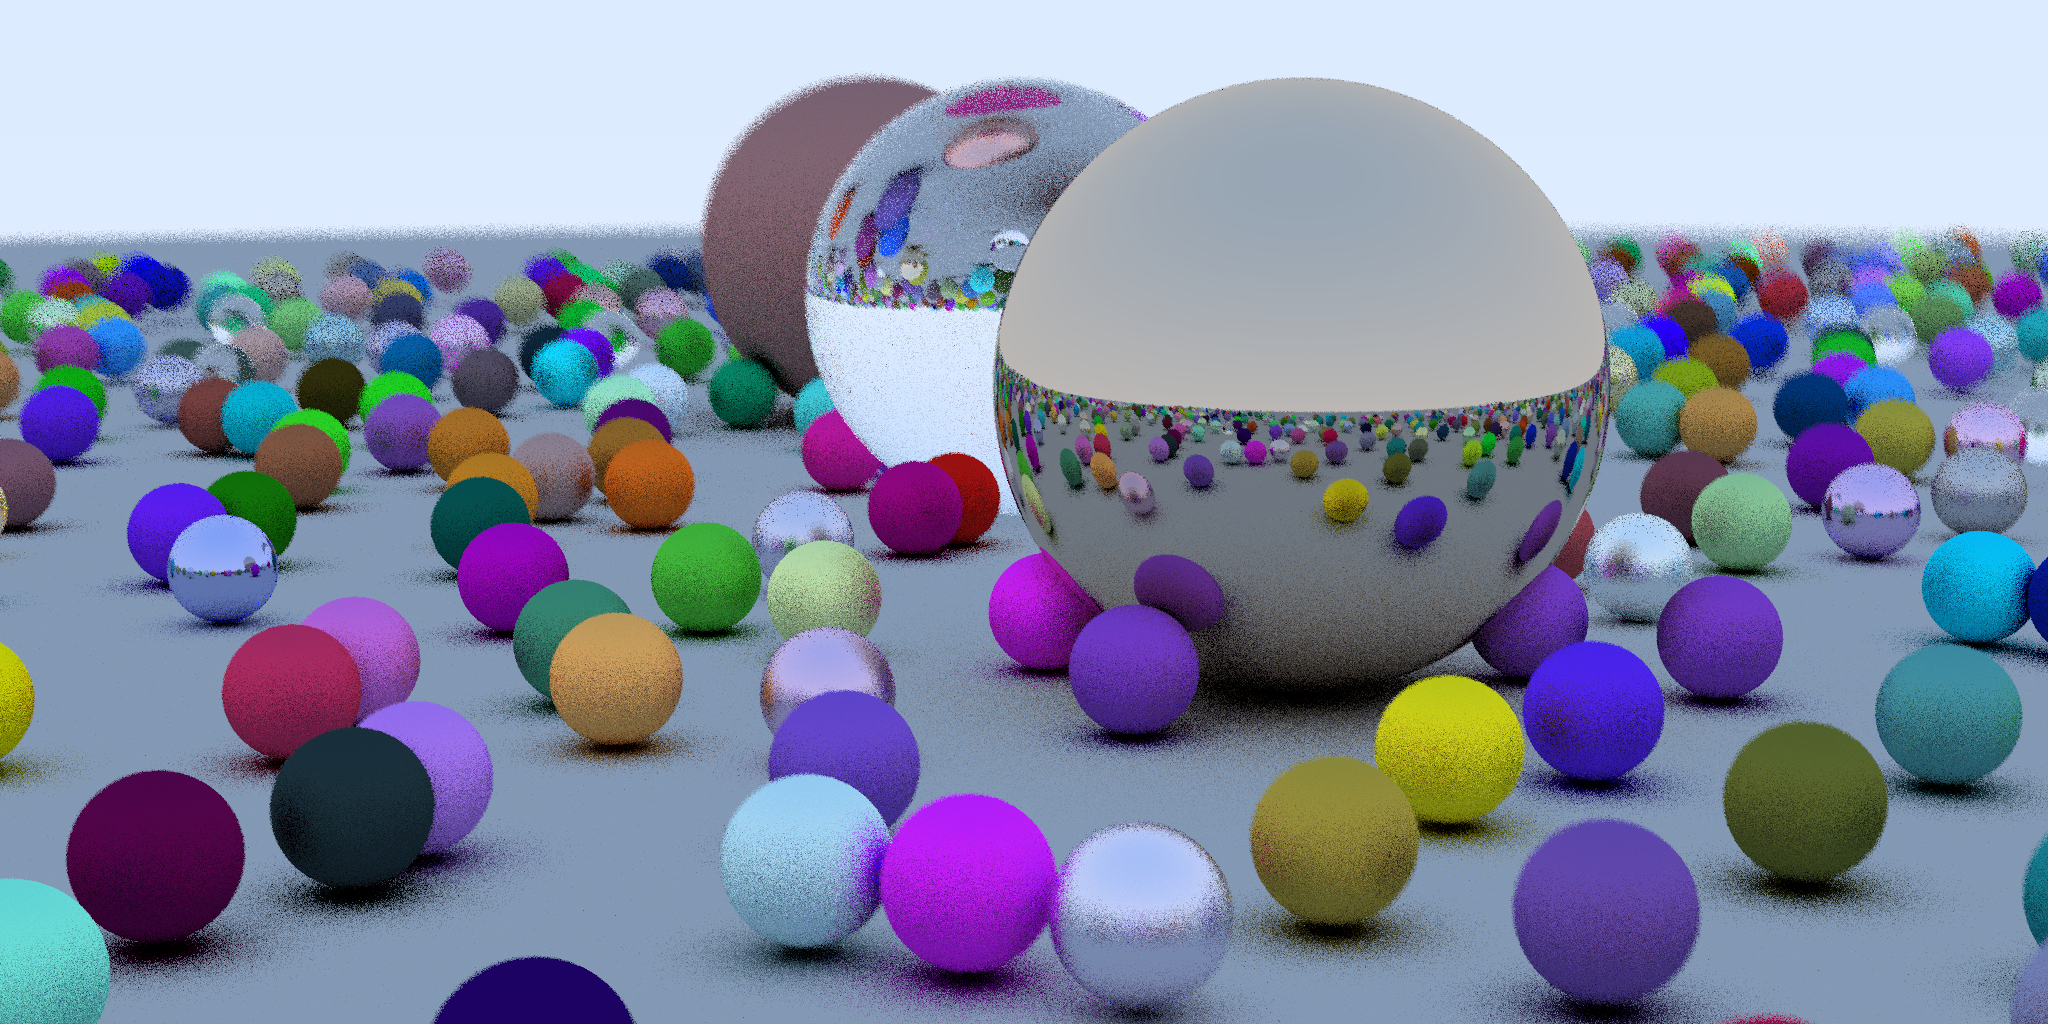
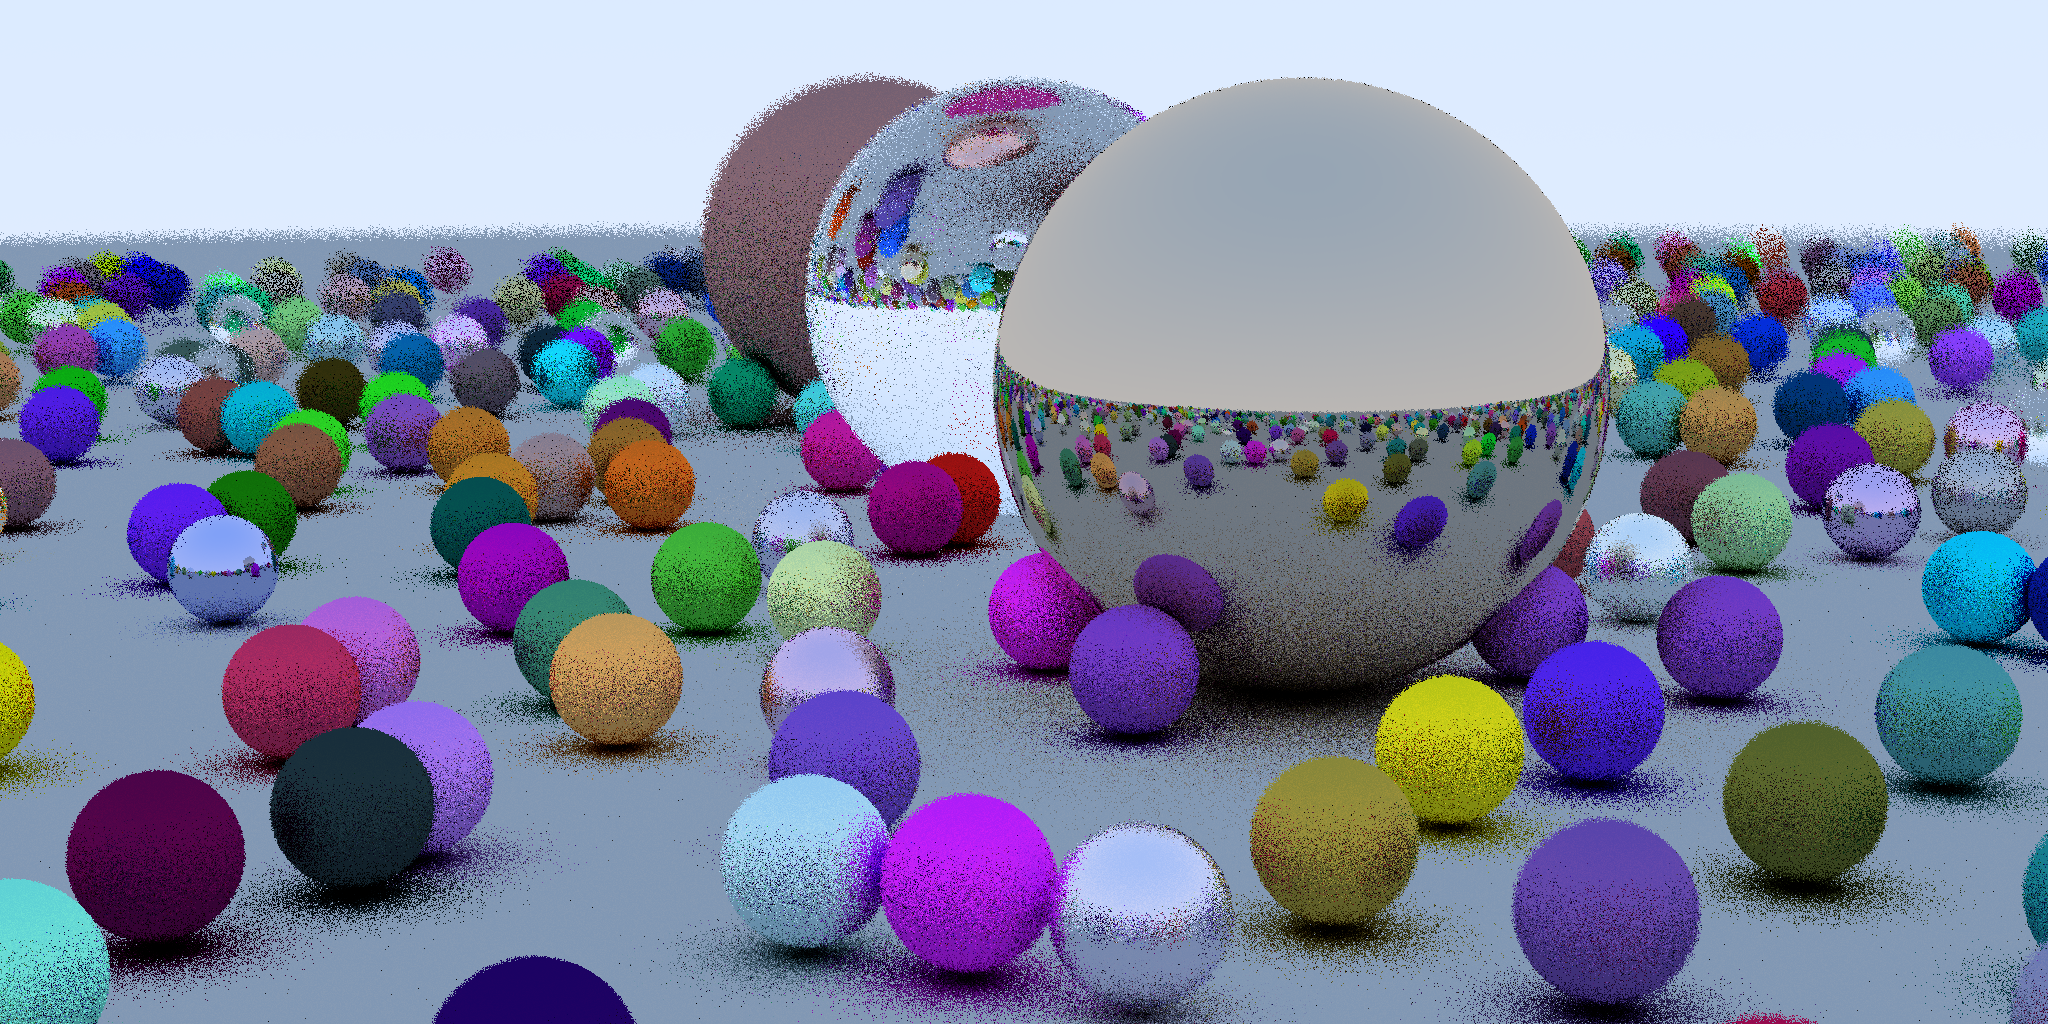
measurement changes

diff --git a/main_lockless_queue.py b/main_lockless_queue.py
@@ -1,4 +1,5 @@
 import numpy as np
+from taichi_glsl.experimental_array import dtype
 import taichi as ti
 from vector import *
 import ray
@@ -16,7 +17,9 @@ ti.init(arch=ti.gpu)
 @ti.data_oriented
 class Queue:
     def __init__(self, struct, size) -> None:
-        self.struct_field = struct.field(shape=(size))
+        self.struct_field = struct.field()
+        self.struct_field_lock = ti.field(dtype=ti.i32)
+        ti.root.dense(ti.i, (size)).place(self.struct_field, self.struct_field_lock)
         self.read_idx = ti.field(dtype=ti.i32, shape=())
         self.write_idx = ti.field(dtype=ti.i32, shape=())
         self.size = size
@@ -29,7 +32,13 @@ class Queue:
             if idx - queue_read_idx <= self.size:
                 break
         self.struct_field[idx % self.size] = struct
+        self.struct_field_lock[idx % self.size] = 1
         return idx
+
+    @ti.kernel
+    def clear(self):
+        self.read_idx[()] = 0
+        self.write_idx[()] = 0
 
     @ti.func
     def pop(self):
@@ -38,7 +47,12 @@ class Queue:
 
     @ti.func
     def get(self, idx : ti.i32) -> ti.template():
-        return self.struct_field[idx % self.size]
+        while True:
+            if self.struct_field_lock[idx % self.size] == 1:
+                break
+        s = self.struct_field[idx % self.size]
+        self.struct_field_lock[idx % self.size] = 0
+        return s
 
     @ti.func
     def get_read_idx(self) -> ti.i32:
@@ -62,8 +76,8 @@ if __name__ == '__main__':
     # image data
     aspect_ratio = 4.0 / 2.0
     image_width = 2048
-    samples_per_pixel = 8
-    max_depth = 16
+    samples_per_pixel = 1
+    max_depth = 32
     image_height = int(image_width / aspect_ratio)
     rays = ray.Rays(image_width, image_height)
     pixels = ti.Vector.field(3, dtype=float)
@@ -150,6 +164,12 @@ if __name__ == '__main__':
             next_ray = ray_sample(org = ray_org, dir = ray_dir, depth = d, x = x, y = y, pdf = pdf)
             ray_queue.push(next_ray)
             sample_count[x, y] = 0
+            pixels[x, y] = Vector(0.0, 0.0, 0.0)
+
+    @ti.kernel
+    def finish():
+        for x, y in pixels:
+            pixels[x, y] = ti.sqrt(pixels[x, y] / samples_per_pixel)
 
     @ti.kernel
     def wavefront_queue():
@@ -160,7 +180,7 @@ if __name__ == '__main__':
                 if miss or last bounce sample backgound
             return pixels that hit max samples
         '''
-        for i in range(1024 * 24):
+        for i in range(256 * 6 * 12):
             while True:
                 queue_idx = ray_queue.pop()
                 while True:
@@ -192,7 +212,6 @@ if __name__ == '__main__':
                 if not hit or depth == 0:
                     pixels[x, y] += pdf * get_background(ray_dir)
                     if ti.atomic_add(sample_count[x, y], 1) >= samples_per_pixel - 1:
-                        pixels[x, y] = ti.sqrt(pixels[x, y] / samples_per_pixel)
                         num_completed[()] += 1
                     else:
                         u = (x + ti.random()) / (image_width - 1)
@@ -206,10 +225,18 @@ if __name__ == '__main__':
 
     num_pixels = image_width * image_height
 
-    t = time()
-    print('starting big wavefront')
     num_to_do = wavefront_initial()
     wavefront_queue()
+    finish()
+    ray_queue.clear()
+    num_completed[()] = 0
+    ti.sync()
+
+    print('starting big wavefront')
+    t = time()
+    num_to_do = wavefront_initial()
+    wavefront_queue()
+    finish()
     ti.sync()
     print(time() - t)
     ti.imwrite(pixels.to_numpy(), 'out_lockless_q.png')

diff --git a/main.py b/main.py
@@ -29,18 +29,17 @@ if __name__ == '__main__':
     # image data
     aspect_ratio = 4.0 / 2.0
     image_width = 2048
-    samples_per_pixel = 8
-    max_depth = 16
+    samples_per_pixel = 1
+    max_depth = 32
     image_height = int(image_width / aspect_ratio)
     rays = ray.Rays(image_width, image_height)
     pixels = ti.Vector.field(3, dtype=float)
     inner_queue = ti.field(dtype=ti.i32)
     # ti.root.dense(ti.i, (image_width * image_height)).place(inner_queue)
     sample_count = ti.field(dtype=ti.i32)
-    needs_sample = ti.field(dtype=ti.i32)
     ti.root.dense(ti.ij,
                   (image_width, image_height)).place(pixels, sample_count,
-                                                     needs_sample, inner_queue)
+                                                     inner_queue)
 
     # materials
     mat_ground = Lambert([0.5, 0.5, 0.5])
@@ -112,8 +111,8 @@ if __name__ == '__main__':
             v = (y + ti.random()) / (image_height - 1)
             ray_org, ray_dir = cam.get_ray(u, v)
             rays.set(x, y, ray_org, ray_dir, depth, pdf)
-            needs_sample[x, y] = 1
             sample_count[x, y] = 0
+            pixels[x, y] = Vector(0.0, 0.0, 0.0)
 
     @ti.kernel
     def fill_inner_queue() -> ti.i32:
@@ -164,7 +163,6 @@ if __name__ == '__main__':
 
             if not hit or depth == 0:
                 sample_count[x, y] += 1
-                # needs_sample[x, y] = 1
                 pixels[x, y] += pdf * get_background(ray_dir)
                 u = (x + ti.random()) / (image_width - 1)
                 v = (y + ti.random()) / (image_height - 1)
@@ -175,17 +173,23 @@ if __name__ == '__main__':
 
     num_pixels = image_width * image_height
 
-    t = time()
-    print('starting big wavefront')
+    # Run two times to get rid of JIT
     wavefront_initial()
     num_to_do = fill_inner_queue()
     print(num_to_do)
-    # print(inner_queue.to_numpy())
-    # fix_inner_queue()
     while num_to_do > 0:
         wavefront_queue()
         num_to_do = fill_inner_queue()
-        # fix_inner_queue()
+    finish()
+
+    print('starting big wavefront')
+    t = time()
+    wavefront_initial()
+    num_to_do = fill_inner_queue()
+    print(num_to_do)
+    while num_to_do > 0:
+        wavefront_queue()
+        num_to_do = fill_inner_queue()
     finish()
     ti.sync()
     print(time() - t)

diff --git a/main_mega.py b/main_mega.py
@@ -29,8 +29,8 @@ if __name__ == '__main__':
     # image data
     aspect_ratio = 4.0 / 2.0
     image_width = 2048
-    samples_per_pixel = 8
-    max_depth = 16
+    samples_per_pixel = 1
+    max_depth = 32
     image_height = int(image_width / aspect_ratio)
     rays = ray.Rays(image_width, image_height)
     pixels = ti.Vector.field(3, dtype=float)
@@ -89,7 +89,6 @@ if __name__ == '__main__':
     start_attenuation = Vector(1.0, 1.0, 1.0)
     initial = True
 
-    num_completed = 0
     num_pixels = image_width * image_height
 
     @ti.kernel
@@ -104,6 +103,7 @@ if __name__ == '__main__':
             ray_org, ray_dir = cam.get_ray(u, v)
             rays.set(x, y, ray_org, ray_dir, depth, pdf)
             sample_count[x, y] = 0
+            pixels[x, y] = Vector(0.0, 0.0, 0.0)
 
     @ti.kernel
     def wavefront_queue():
@@ -145,8 +145,12 @@ if __name__ == '__main__':
 
     num_pixels = image_width * image_height
 
-    t = time()
+    num_to_do = wavefront_initial()
+    wavefront_queue()
+    ti.sync()
+
     print('starting big wavefront')
+    t = time()
     num_to_do = wavefront_initial()
     wavefront_queue()
     ti.sync()
